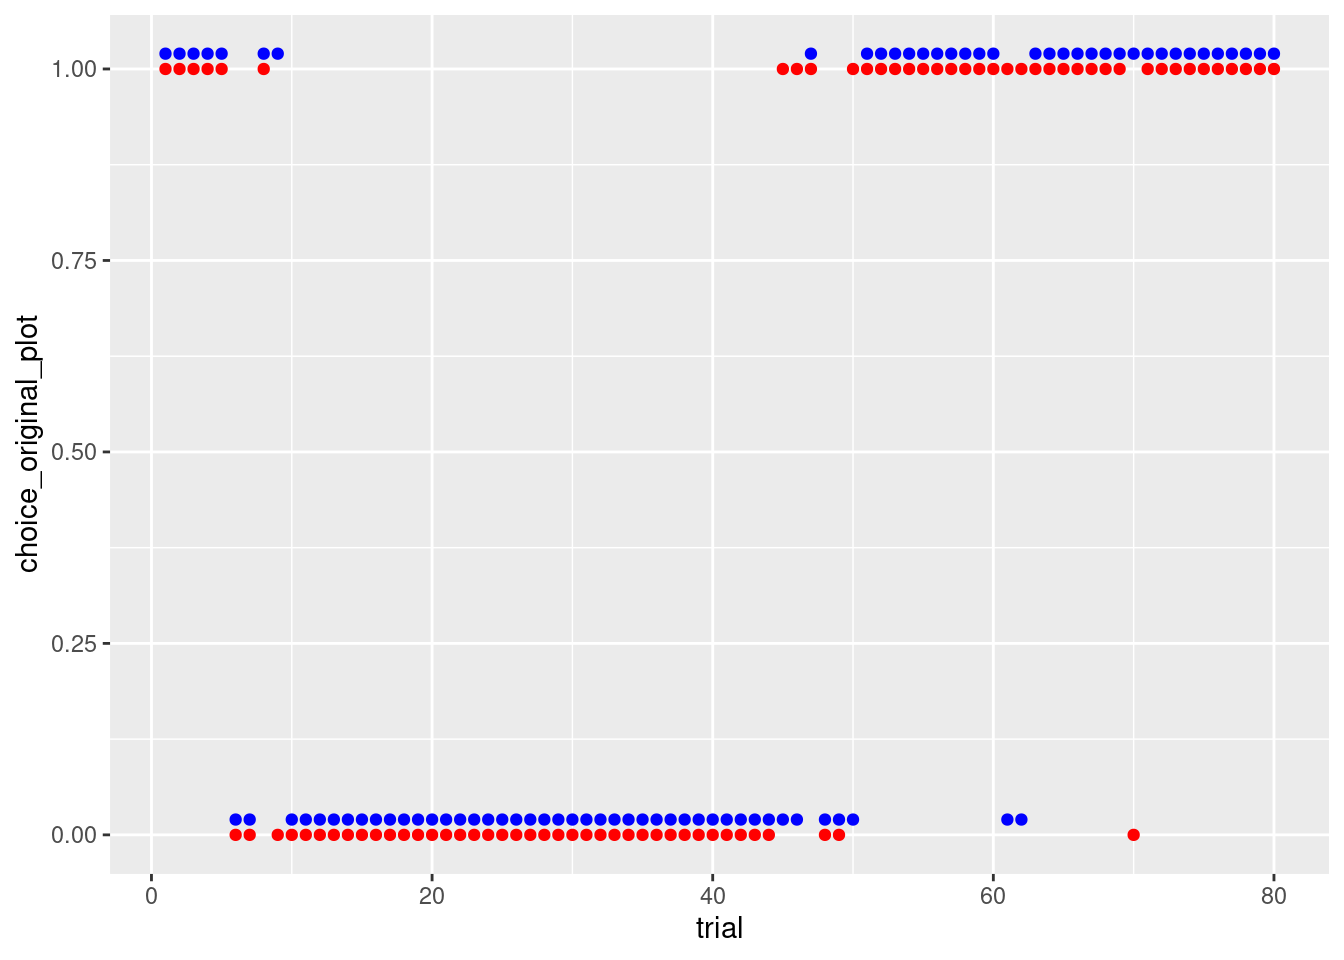
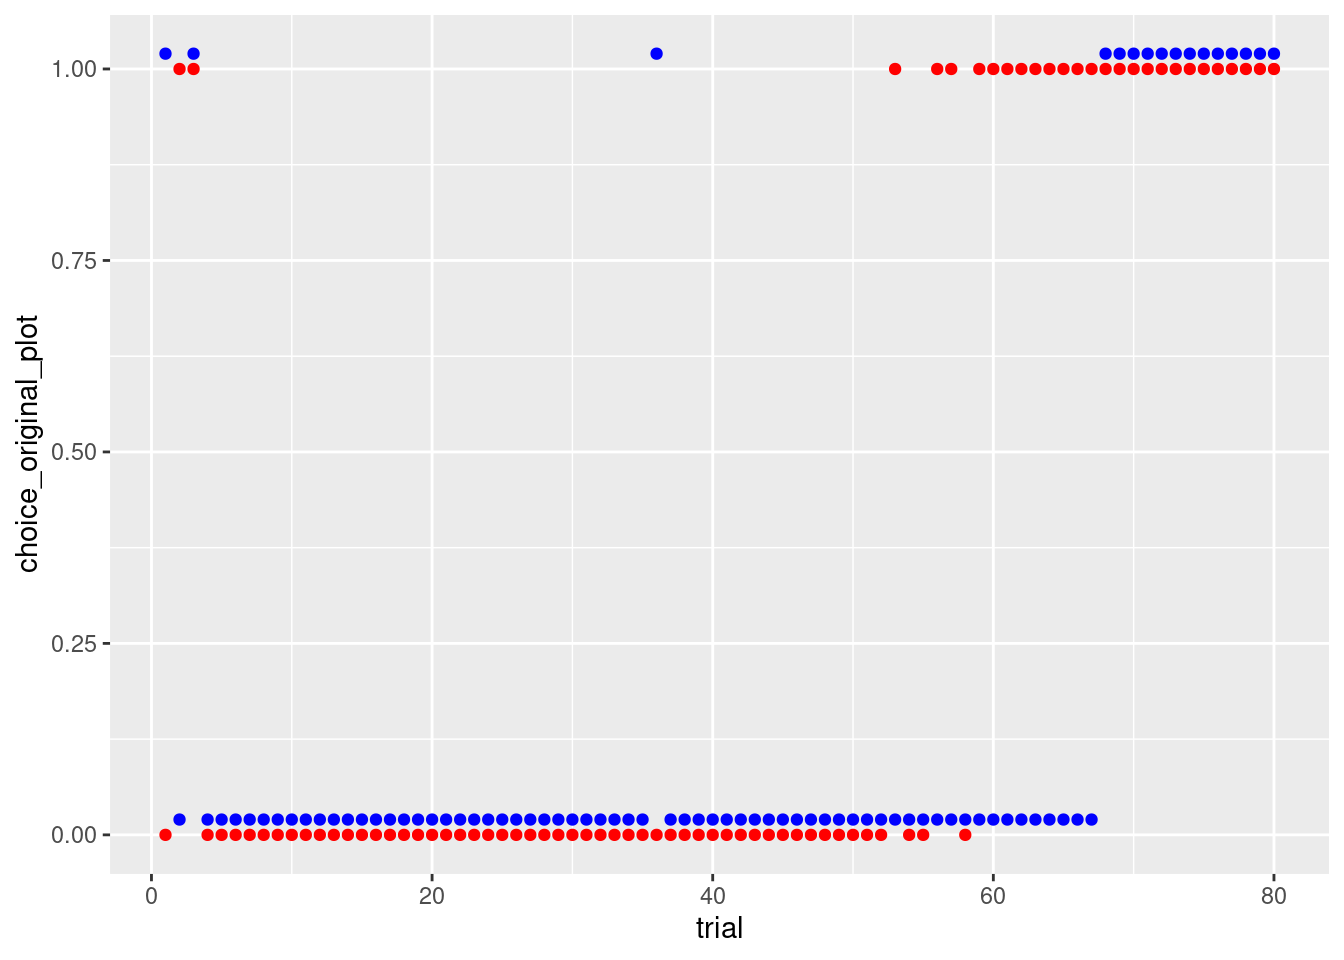
update

diff --git a/docs/how-to-cognitive-modeling-rl1.html b/docs/how-to-cognitive-modeling-rl1.html
@@ -622,11 +622,11 @@ result %&gt;%
 <pre class="r"><code>data &lt;- q_learning_sim(alpha = 0.2, beta = 5,data = sim_data) 
 result &lt;- q_learning_ll(alpha = 0.2, beta = 5,data = data) 
 result$ll</code></pre>
-<pre><code>## [1] -24.83688</code></pre>
+<pre><code>## [1] -25.58886</code></pre>
 <p>alpha = 0.2, beta = 5で生成されたデータにたいして，alpha = 0.6, beta = 1の時の尤度を計算します。尤度が小さくなったかと思います。他にもαとβを変更して（生成時の値alpha = 0.2, beta = 5に近づけたり，遠ざけたりする），尤度の挙動を確認してみましょう。</p>
 <pre class="r"><code>result &lt;- q_learning_ll(alpha = 0.6, beta = 1,data = data) 
 result$ll</code></pre>
-<pre><code>## [1] -40.50529</code></pre>
+<pre><code>## [1] -37.66696</code></pre>
 <ul>
 <li>3.最良の評価を与えるパラメータを決定する</li>
 </ul>
@@ -720,7 +720,7 @@ maxIndex &lt;- which.max(grid_result$calc_results$store_loglike)
 paste(&quot;最尤推定値: α =&quot;,grid_result$calc_results$store_alpha[maxIndex],
       &quot;β =&quot;,grid_result$calc_results$store_beta[maxIndex], 
       &quot;,対数尤度: Log Likelihood = &quot;,grid_result$calc_results$store_loglike[maxIndex])</code></pre>
-<pre><code>## [1] &quot;最尤推定値: α = 0.52 β = 7.2 ,対数尤度: Log Likelihood =  -15.6011482940969&quot;</code></pre>
+<pre><code>## [1] &quot;最尤推定値: α = 0.16 β = 7.2 ,対数尤度: Log Likelihood =  -15.5387223132021&quot;</code></pre>
 </div>
 <div id="価値と行動選択確率のプロットモデルシミュレーション" class="section level4">
 <h4>価値と行動選択確率のプロット（モデル・シミュレーション）</h4>
@@ -749,8 +749,8 @@ data_original_estimated &lt;- tibble(trial = data$trial,
 <pre class="r"><code>table(data_original_estimated$choice_original,data_original_estimated$choice_estimated)</code></pre>
 <pre><code>##    
 ##      0  1
-##   0 39  5
-##   1  2 34</code></pre>
+##   0 51 13
+##   1  2 14</code></pre>
 </div>
 </div>
 </div>
@@ -1041,13 +1041,13 @@ image.plot(x,y,grid_result1$store_3d)</code></pre>
 paste(&quot;最尤推定値: α =&quot;,grid_result1$calc_results$store_alpha[maxIndex],
       &quot;β =&quot;,grid_result1$calc_results$store_beta[maxIndex], 
       &quot;,対数尤度: Log Likelihood = &quot;,grid_result1$calc_results$store_loglike[maxIndex])</code></pre>
-<pre><code>## [1] &quot;最尤推定値: α = 0.67 β = 15 ,対数尤度: Log Likelihood =  -8.60684028721809&quot;</code></pre>
+<pre><code>## [1] &quot;最尤推定値: α = 0.38 β = 15 ,対数尤度: Log Likelihood =  -2.29866391841605&quot;</code></pre>
 <p>当たり前ですが，間隔を広げたり，範囲を狭めると，範囲外の推定値は求まりませんし（βは範囲外），きめが荒いので，推定値もずれます。実際は，グリッドサーチではなく，最適化手法を使って最尤推定値を求めたり，ベイズ推定で求めたりします。ただ，推定においては，狭い範囲内で最も良いだけの値（局所最適解という）をもってくる可能性があるのは気をつけないといけません。</p>
 <pre class="r"><code>maxIndex &lt;- which.max(grid_result2$calc_results$store_loglike)
 paste(&quot;最尤推定値: α =&quot;,grid_result2$calc_results$store_alpha[maxIndex],
       &quot;β =&quot;,grid_result2$calc_results$store_beta[maxIndex], 
       &quot;,対数尤度: Log Likelihood = &quot;,grid_result2$calc_results$store_loglike[maxIndex])</code></pre>
-<pre><code>## [1] &quot;最尤推定値: α = 0.6 β = 1 ,対数尤度: Log Likelihood =  -35.025580884979&quot;</code></pre>
+<pre><code>## [1] &quot;最尤推定値: α = 0.6 β = 1 ,対数尤度: Log Likelihood =  -31.3697872933866&quot;</code></pre>
 <pre class="r"><code>rownames(grid_result2$store_3d) &lt;- NULL
 y &lt;- seq(0,1,0.2)
 x &lt;- seq(0,1,0.2)
@@ -1057,11 +1057,124 @@ image.plot(x,y,grid_result2$store_3d)</code></pre>
 <div id="汎用最適化関数で最尤推定する" class="section level3">
 <h3>汎用最適化関数で最尤推定する</h3>
 <p>グリッドサーチはわかりやすいですが，上記のような問題もあるので，実際のパラメータ推定では，汎用最適化関数を用います。以下では，Rでよく使用されるoptim関数とより洗練されたアルゴリズムである粒子群最適化(Particle Swarm Optimization)を実装したpsoパッケージを用いたパラメータ推定について紹介します。</p>
+<p>汎用最適化関数を使うために，q_learning_ll関数を少し変更して，パラメータとデータを与えたら，負の対数尤度を返すq_learning_nll関数を作ります（不要な部分を削除して，最後に対数尤度にマイナスをつけただけです）。</p>
+<pre class="r"><code>q_learning_nll &lt;- function(par,data) {
+  alpha &lt;- par[1]
+  beta &lt;- par[2]
+  #変数の準備
+  value_s1 &lt;- 0          # s1の価値(初期値は0)
+  value_s2 &lt;- 0          # s2の価値(初期値は0)
+  prob_s1 &lt;- NULL  # s1の選択確率
+  ll &lt;- 0                 # 対数尤度
+  # Qlearningモデル
+  for (i in 1:nrow(data)){
+    # s1を選ぶ確率を計算
+    prob_s1[i] &lt;- exp(beta*value_s1[i])/(exp(beta*value_s1[i])+exp(beta*value_s2[i]))
+    #FBを報酬(r)として、価値の更新を行う。
+    if (data$choice[i] == 1){
+        #予測誤差の計算
+        prediction_error &lt;-  data$reward[i] - value_s1[i]
+        #予測誤差を使ってs1の価値を更新する
+        value_s1[i+1] &lt;- value_s1[i]+alpha*prediction_error
+        #s2は更新なし
+        value_s2[i+1] &lt;- value_s2[i]
+        # 対数尤度の計算のために選択したs1を選ぶ確率の対数を加算
+        ll &lt;- ll + log(prob_s1[i])
+    }else{
+        #予測誤差の計算
+        prediction_error &lt;- data$reward[i] - value_s2[i]
+        #予測誤差を使ってs2の価値を更新する
+        value_s2[i+1] &lt;- value_s2[i]+alpha*prediction_error
+        #s1は更新なし
+        value_s1[i+1] &lt;- value_s1[i]
+        # 対数尤度の計算のために選択したs2を選ぶ確率の対数を加算
+        ll &lt;- ll + log(1-prob_s1[i])
+    }
+  }
+  return(-ll)
+}</code></pre>
+<p>今回は，sub03のデータでグリッドサーチ，optim, psoの推定をしてみましょう。まずは，データを用意して，グリッドサーチをしてみます。</p>
+<pre class="r"><code># データの用意
+sub03_data &lt;- data_long %&gt;% 
+    filter(id == 3)
+
+# グリッドサーチ
+result_grid &lt;- grid_search(sub03_data)
+maxIndex &lt;- which.max(result_grid$calc_results$store_loglike)
+alpha_grid &lt;- result_grid$calc_results$store_alpha[maxIndex]
+beta_grid &lt;- result_grid$calc_results$store_beta[maxIndex]
+loglike_grid &lt;- result_grid$calc_results$store_loglike[maxIndex]
+print(paste(&quot;最尤推定値: α =&quot;,result_grid$calc_results$store_alpha[maxIndex],
+      &quot;β =&quot;,result_grid$calc_results$store_beta[maxIndex], 
+      &quot;,対数尤度: Log Likelihood = &quot;,result_grid$calc_results$store_loglike[maxIndex]))</code></pre>
+<pre><code>## [1] &quot;最尤推定値: α = 0.7 β = 2.2 ,対数尤度: Log Likelihood =  -38.8582274622813&quot;</code></pre>
 <div id="optim" class="section level4">
 <h4>optim</h4>
+<p>optimは与えられた関数の出力値を最小化するパラメータを探索する関数です。parにパラメータの初期値（これを変えると結果も変わるので工夫が必要ですが，今回は適当に0.5にしています），fnに負の対数尤度を返す関数，dataにデータ，methodに使用するアルゴリズム（今回は，L-BFGS-Bです），lowerにパラメータの下限（fnで定義しているように，１つ目がα，１つ目がβです），upoerにパラメータの上限（fnで定義しているように，１つ目がα，１つ目がβです）を指定して実行します。</p>
+<pre class="r"><code>result_optim &lt;- optim(par = c(0.5,0.5),
+      fn = q_learning_nll,
+      data = sub03_data,
+      method = &quot;L-BFGS-B&quot;,
+      lower = c(0,0),
+      upper = c(1,15))
+
+
+print(paste(&quot;最尤推定値: α =&quot;,result_optim$par[1],&quot;β =&quot;,result_optim$par[2], &quot;,対数尤度: Log Likelihood = &quot;, -result_optim$value))</code></pre>
+<pre><code>## [1] &quot;最尤推定値: α = 0.69121145496389 β = 2.26477480079629 ,対数尤度: Log Likelihood =  -38.8506377123627&quot;</code></pre>
 </div>
 <div id="pso" class="section level4">
 <h4>pso</h4>
+<p>粒子群最適化(pso)は，最小値の探索において，複数の初期値からスタートして，局所的な最小化と全体としての最小化を同時に行うことで局所最適解に陥らないように工夫された最適化アルゴリズムです。粒子群最適化について説明は，<a href="result_pso">こちら</a>が簡潔でわかりやすいかと思います。psoパッケージは，optimと同じ使い方ができるように，引数の設定と出力が同じになっています。optimと同様に以下のように設定して，実行します。</p>
+<pre class="r"><code>result_pso &lt;- psoptim(par = c(0.5,0.5),
+                      fn = q_learning_nll,
+                      data = sub03_data,
+                      lower = c(0,0),
+                      upper = c(1,15))
+
+print(paste(&quot;最尤推定値: α =&quot;,result_pso$par[1],&quot;β =&quot;,result_pso$par[2], &quot;,対数尤度: Log Likelihood = &quot;, -result_pso$value))</code></pre>
+<pre><code>## [1] &quot;最尤推定値: α = 0.691211122990475 β = 2.26477597514574 ,対数尤度: Log Likelihood =  -38.8506377123594&quot;</code></pre>
+</div>
+<div id="つの比較" class="section level4">
+<h4>３つの比較</h4>
+<p>ほとんど同じ結果になりますが，一応並べてみます。手法選択は，パラメータリカバリの結果を元にして，推定精度とコスト（主に時間的なコスト）を考慮して，選択することになります。</p>
+<pre class="r"><code>method &lt;- c(&quot;grid&quot;, &quot;optim&quot;, &quot;pso&quot;)
+alpha &lt;- c(result_grid$calc_results$store_alpha[maxIndex],result_optim$par[1],result_pso$par[1])
+beta &lt;- c(result_grid$calc_results$store_beta[maxIndex],result_optim$par[2],result_pso$par[1])
+loglikelihood &lt;- c(result_grid$calc_results$store_loglike[maxIndex],-result_optim$value,-result_pso$value)
+
+compare_table &lt;- tibble(method,alpha,beta, loglikelihood)
+
+knitr::kable(compare_table)</code></pre>
+<table>
+<thead>
+<tr class="header">
+<th align="left">method</th>
+<th align="right">alpha</th>
+<th align="right">beta</th>
+<th align="right">loglikelihood</th>
+</tr>
+</thead>
+<tbody>
+<tr class="odd">
+<td align="left">grid</td>
+<td align="right">0.7000000</td>
+<td align="right">2.2000000</td>
+<td align="right">-38.85823</td>
+</tr>
+<tr class="even">
+<td align="left">optim</td>
+<td align="right">0.6912115</td>
+<td align="right">2.2647748</td>
+<td align="right">-38.85064</td>
+</tr>
+<tr class="odd">
+<td align="left">pso</td>
+<td align="right">0.6912111</td>
+<td align="right">0.6912111</td>
+<td align="right">-38.85064</td>
+</tr>
+</tbody>
+</table>
 </div>
 </div>
 </div>
